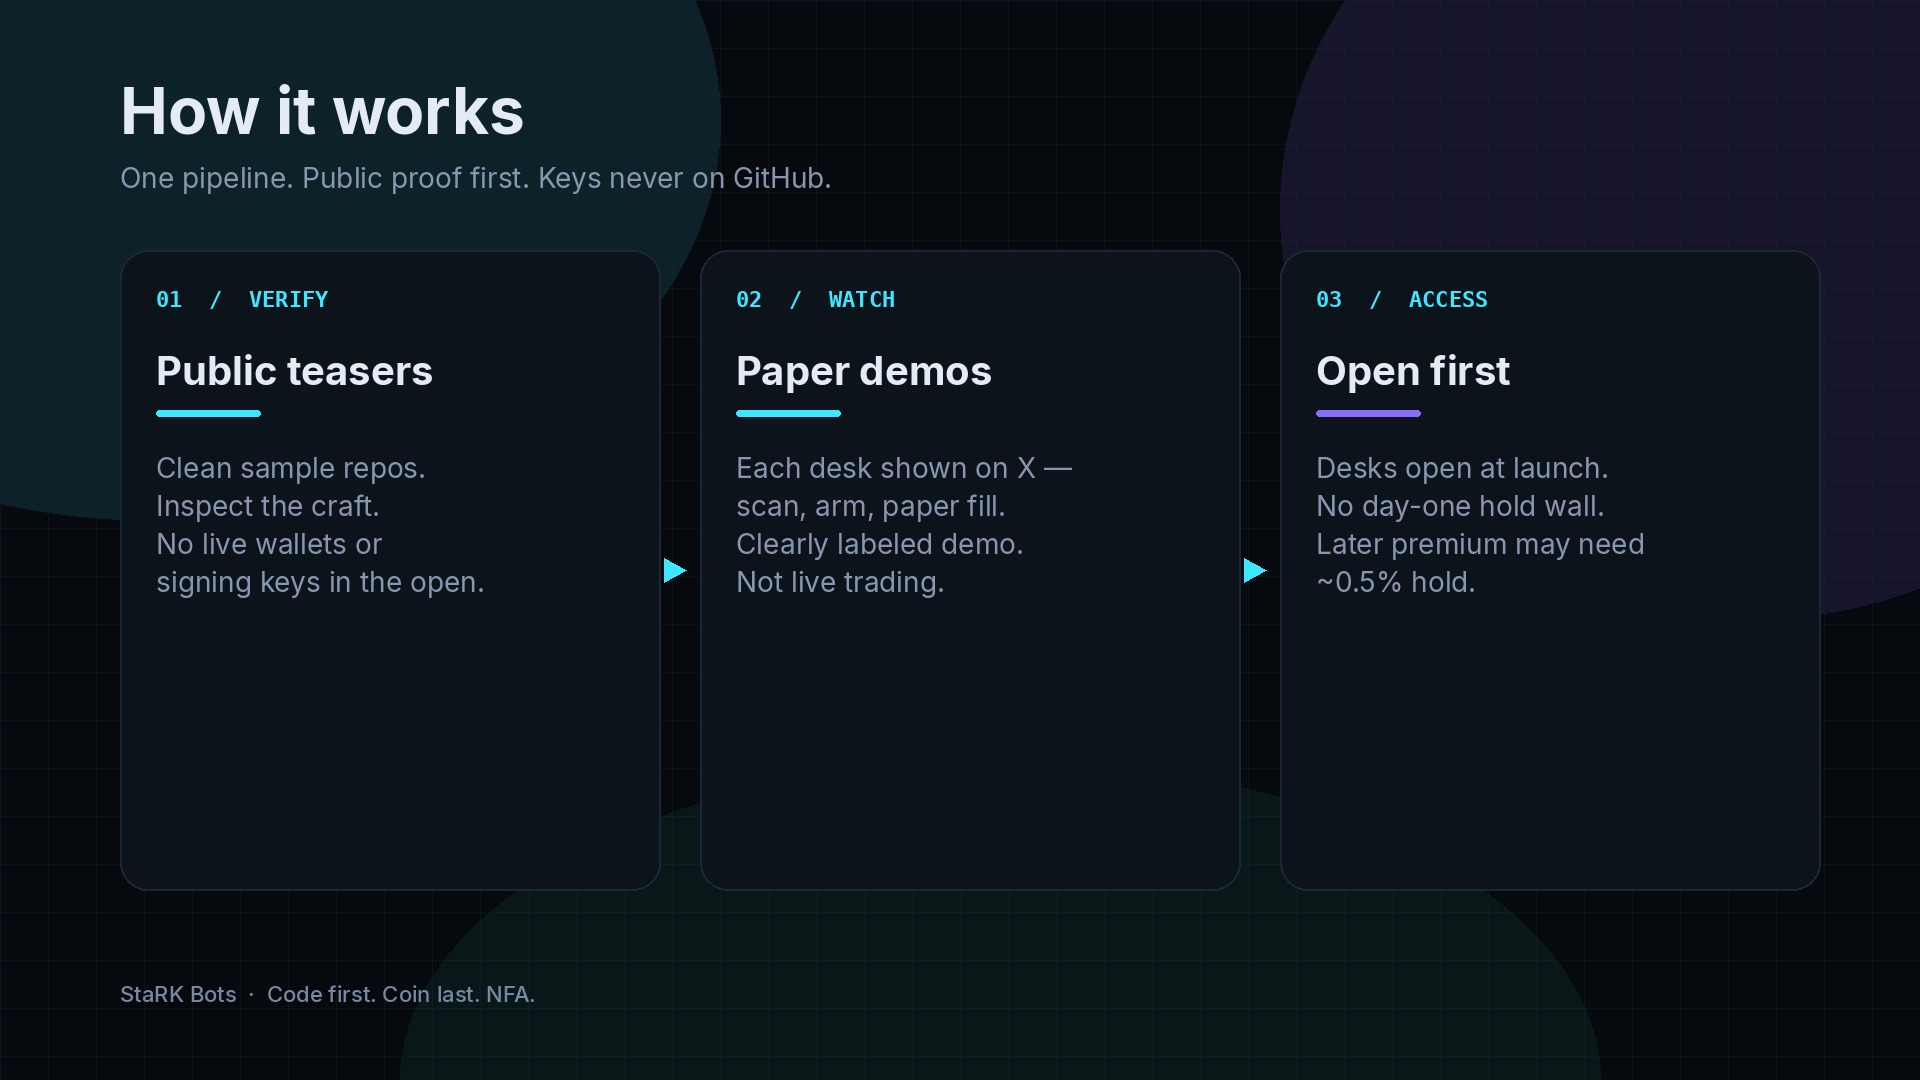
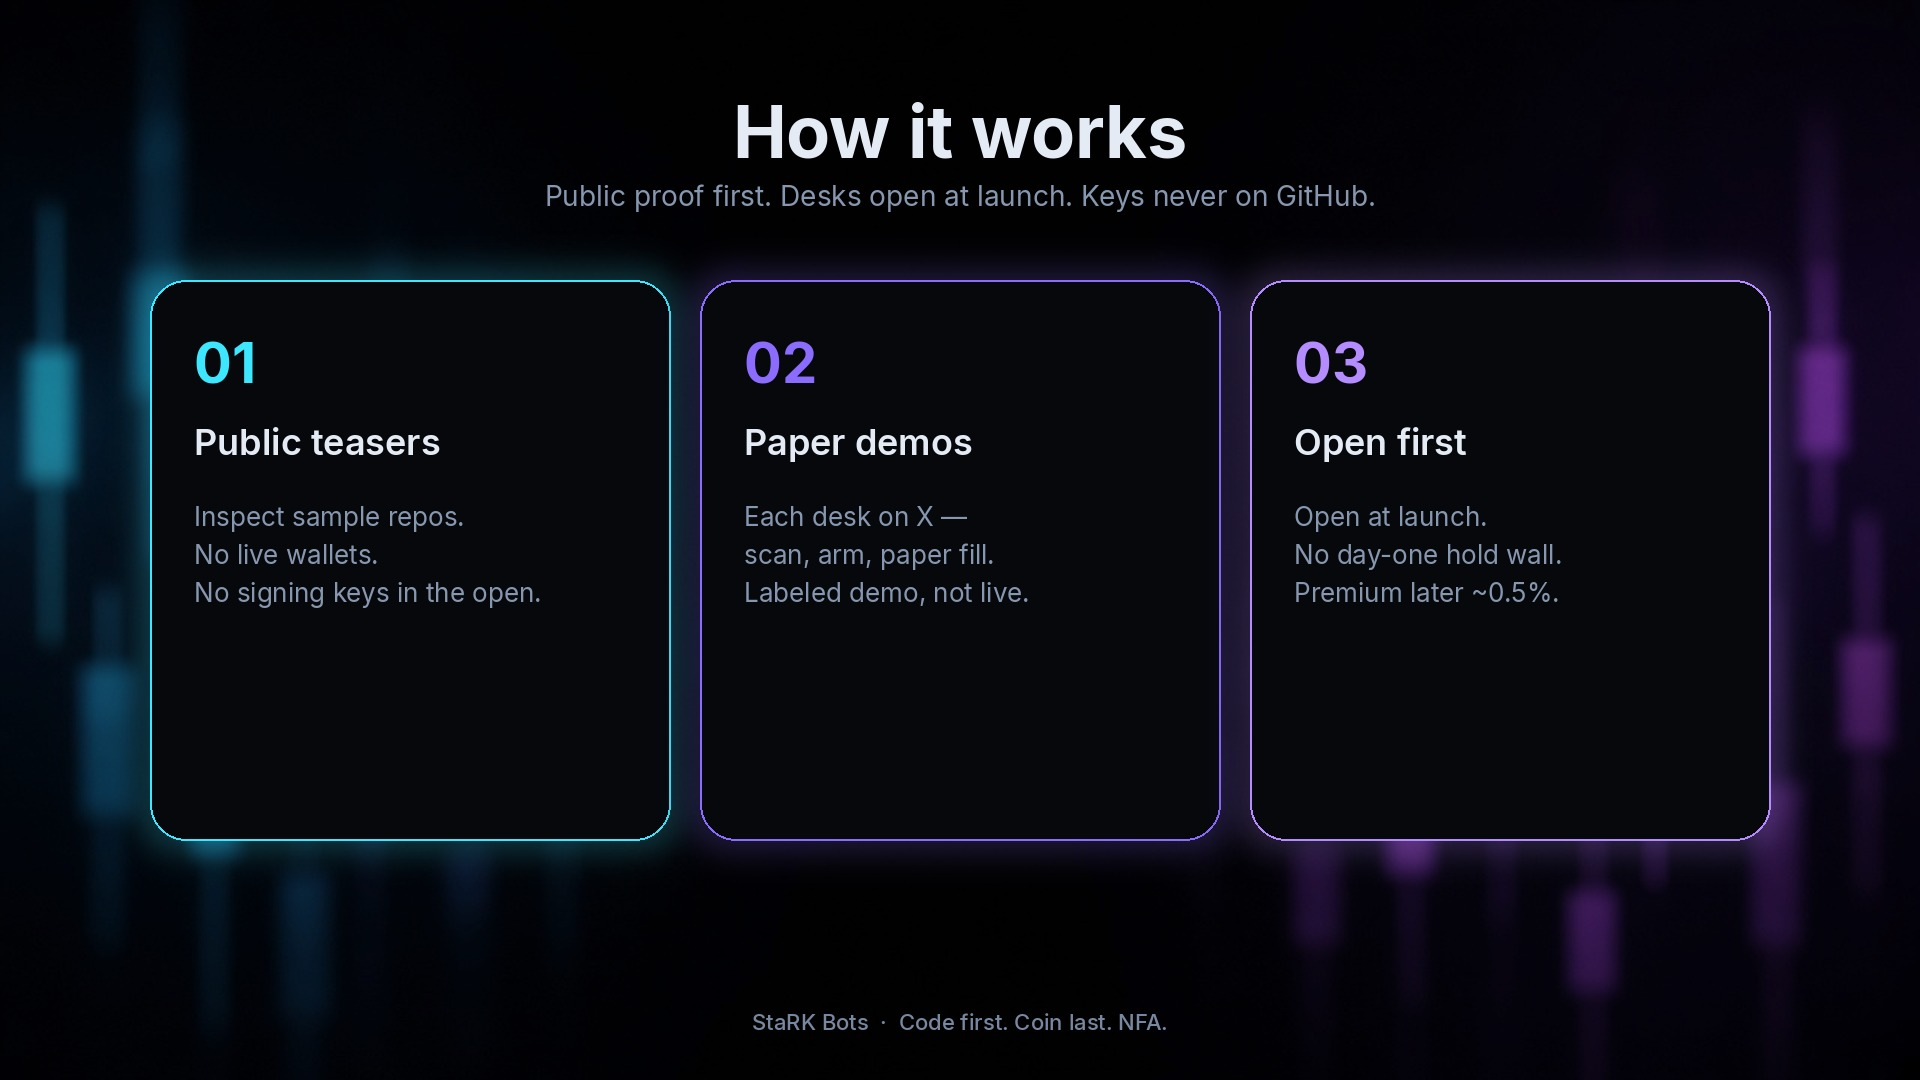
Restore fixed hero JPG; ship matching how/stack/access art

diff --git a/index.html b/index.html
@@ -8,10 +8,10 @@
 <meta property="og:title" content="StaRK Bots"/>
 <meta property="og:description" content="Tools you can inspect. Access you hold. Code first. Coin last."/>
 <meta property="og:url" content="https://starkcrypto.github.io/stark-tools/"/>
-<meta property="og:image" content="https://starkcrypto.github.io/stark-tools/assets/01-hero.png?v=3"/>
+<meta property="og:image" content="https://starkcrypto.github.io/stark-tools/assets/01-hero.jpg?v=2"/>
 <meta name="twitter:card" content="summary_large_image"/>
 <meta name="twitter:site" content="@StaRKCryptoBots"/>
-<meta name="twitter:image" content="https://starkcrypto.github.io/stark-tools/assets/01-hero.png?v=3"/>
+<meta name="twitter:image" content="https://starkcrypto.github.io/stark-tools/assets/01-hero.jpg?v=2"/>
 <link rel="icon" href="favicon.svg" type="image/svg+xml"/>
 <link rel="preconnect" href="https://fonts.googleapis.com"/>
 <link rel="preconnect" href="https://fonts.gstatic.com" crossorigin/>
@@ -90,8 +90,21 @@ footer .row{display:flex;flex-wrap:wrap;gap:12px;margin-bottom:16px}
   .nav-links{display:none}
   .menu-btn{display:inline-flex}
   .nav-links.open{display:flex;flex-direction:column;align-items:stretch;position:absolute;right:22px;top:62px;background:var(--panel);border:1px solid var(--line);border-radius:12px;padding:12px;min-width:200px;box-shadow:0 16px 40px rgba(0,0,0,.4)}
-  .hero{padding:32px 0 24px;gap:24px}
-  section{padding:40px 0}
+  .hero{padding:28px 0 20px;gap:20px}
+  section{padding:36px 0}
+  .hero h1{font-size:clamp(30px,9vw,42px);letter-spacing:-.025em}
+  .hero .lead{font-size:16px;margin-bottom:18px}
+  .btn{padding:11px 16px}
+  .statrow{gap:16px}
+  .nav-links.open{left:22px;right:22px;min-width:0}
+}
+@media(max-width:640px){
+  .wrap{padding:0 16px}
+  .cta .btn{flex:1 1 100%}
+  .socials{gap:12px;font-size:12px}
+  .logo{font-size:16px}
+  h2{font-size:clamp(22px,7vw,28px)}
+  .card,.step{min-height:0;padding:16px}
 }
 </style>
 </head>
@@ -125,9 +138,9 @@ footer .row{display:flex;flex-wrap:wrap;gap:12px;margin-bottom:16px}
         <a class="btn btn-ghost" href="https://github.com/StaRKCrypto/stark-tools/blob/main/docs/ABOUT-STARK-BOTS.md">Full article</a>
       </div>
       <div class="socials">
-        <a href="https://x.com/StaRKCryptoBots">X · @StaRKCryptoBots</a>
-        <a href="https://github.com/StaRKCrypto/stark-tools">GitHub</a>
-        <a href="https://www.youtube.com/@starksystems-y2r">YouTube</a>
+        <a href="https://x.com/StaRKCryptoBots" target="_blank" rel="noopener">X · @StaRKCryptoBots</a>
+        <a href="https://github.com/StaRKCrypto/stark-tools" target="_blank" rel="noopener">GitHub</a>
+        <a href="https://www.youtube.com/@starksystems-y2r" target="_blank" rel="noopener">YouTube</a>
       </div>
       <div class="live">
         <span class="chip">● Landing live</span>
@@ -141,13 +154,13 @@ footer .row{display:flex;flex-wrap:wrap;gap:12px;margin-bottom:16px}
         <div class="stat"><strong>Public</strong><span>sample source</span></div>
       </div>
     </div>
-    <div class="hero-media"><img src="assets/01-hero.png?v=3" width="1920" height="1080" alt="StaRK Bots — tools you can inspect, access you hold"/></div>
+    <div class="hero-media"><img src="assets/01-hero.jpg?v=2" width="1600" height="900" alt="StaRK Bots — tools you can inspect, access you hold"/></div>
   </header>
 
   <section id="how">
     <h2>How it works</h2>
     <p class="sub">One pipeline for every desk: prove the idea in public, keep keys private. Desks open at launch; later premium may need ~0.5% hold.</p>
-    <div class="fig"><img src="assets/02-how.png?v=3" width="1920" height="1080" alt="How StaRK Bots works: public teasers, paper demos, open at launch"/></div>
+    <div class="fig"><img src="assets/02-how.png?v=4" width="1920" height="1080" alt="How StaRK Bots works: public teasers, paper demos, open at launch"/></div>
     <div class="steps">
       <div class="step"><div class="n">01 / VERIFY</div><h3>Public teasers</h3><p>Clean sample repos on GitHub. Inspect the craft. No live wallets or signing keys in the open.</p></div>
       <div class="step"><div class="n">02 / WATCH</div><h3>Paper demos</h3><p>Each bot shown end-to-end on @StaRKCryptoBots — scan, arm, paper fill. Clearly labeled demo.</p></div>
@@ -158,7 +171,7 @@ footer .row{display:flex;flex-wrap:wrap;gap:12px;margin-bottom:16px}
   <section id="stack">
     <h2>The stack</h2>
     <p class="sub">First wave of desks with public teasers + demos. Many more in the pipeline.</p>
-    <div class="fig"><img src="assets/03-stack.png?v=3" width="1920" height="1080" alt="StaRK Bots desk stack"/></div>
+    <div class="fig"><img src="assets/03-stack.png?v=4" width="1920" height="1080" alt="StaRK Bots desk stack"/></div>
     <div class="grid" id="bots"></div>
   </section>
 
@@ -181,7 +194,7 @@ footer .row{display:flex;flex-wrap:wrap;gap:12px;margin-bottom:16px}
 
   <section id="access">
     <h2>Access pass — not a promise</h2>
-    <div class="fig"><img src="assets/04-access.png?v=3" width="1920" height="1080" alt="Access pass: open at launch, premium later, keys private"/></div>
+    <div class="fig"><img src="assets/04-access.png?v=4" width="1920" height="1080" alt="Access pass: open at launch, premium later, keys private"/></div>
     <div class="panel">
       <ul>
         <li><strong>Open at launch</strong> — later premium tools may need ~0.5% hold.</li>
@@ -239,7 +252,7 @@ footer .row{display:flex;flex-wrap:wrap;gap:12px;margin-bottom:16px}
     <div class="row">
       <a class="btn btn-primary" href="https://x.com/StaRKCryptoBots">Follow @StaRKCryptoBots</a>
       <a class="btn btn-ghost" href="https://github.com/StaRKCrypto/stark-tools">Star GitHub hub</a>
-      <a class="btn btn-ghost" href="https://www.youtube.com/@starksystems-y2r">YouTube</a>
+      <a class="btn btn-ghost" href="https://www.youtube.com/@starksystems-y2r" target="_blank" rel="noopener">YouTube</a>
       <a class="btn btn-ghost" href="https://x.com/StaRKCryptoBots/status/2100506806254461058">Landing announce</a>
     </div>
     StaRKCrypto · Brand managed by Grok Bot · Personal @_Starkcrypto · MIT on public teasers · NFA<br/>
